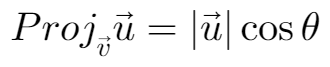
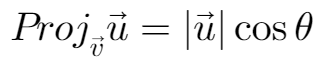
Let a letter set under the lean of the one before it (#14)
* Let a letter set under the lean of the one before it

An italic letter's italic correction is ink past its advance, so the
atom has to reach that far for a superscript to clear it. Adding it to
the pen as well spaced the next letter by the lean too, which is what
TeX does but not what CSharpMath or MathML do, and it left f standing
apart from its neighbours and U from the n after it.

A row now moves the pen by the advance and reaches to the lean, so
scripts sit exactly where they did and only the gap between letters
closes. Nothing collides: the worst leans in the font are V, Y, T and P
before a capital, and each sets over the next letter's shoulder the way
italic type intends.

* Keep the furthest reach a row has drawn to

An atom narrower than the lean before it pulled the row's width back
inside ink it had already placed, so a row ending in a widthless atom
after an f reported a width that cropped the f. The reach only ever
grows now.

---------

diff --git a/examples/README.md b/examples/README.md
@@ -4,11 +4,11 @@ Generated by `dotnet run --project tools/RenderExamples -- examples` at 40 point
 
 | Name | Size | Rendering |
 |---|---|---|
-| Alphabets | 554×57 | ![Alphabets](Alphabets.png) |
-| Capitals | 852×57 | ![Capitals](Capitals.png) |
+| Alphabets | 541×57 | ![Alphabets](Alphabets.png) |
+| Capitals | 775×57 | ![Capitals](Capitals.png) |
 | CapitalGreeks | 713×51 | ![CapitalGreeks](CapitalGreeks.png) |
-| Greeks | 570×58 | ![Greeks](Greeks.png) |
-| Numbers | 221×49 | ![Numbers](Numbers.png) |
+| Greeks | 546×58 | ![Greeks](Greeks.png) |
+| Numbers | 220×49 | ![Numbers](Numbers.png) |
 | Commands | 365×60 | ![Commands](Commands.png) |
 | Exponential | 55×54 | ![Exponential](Exponential.png) |
 | ExponentWithFraction | 65×60 | ![ExponentWithFraction](ExponentWithFraction.png) |
@@ -17,7 +17,7 @@ Generated by `dotnet run --project tools/RenderExamples -- examples` at 40 point
 | Fraction | 60×103 | ![Fraction](Fraction.png) |
 | FractionNested | 147×130 | ![FractionNested](FractionNested.png) |
 | FractionWithRoot | 74×112 | ![FractionWithRoot](FractionWithRoot.png) |
-| FunctionDomainCodomain | 181×57 | ![FunctionDomainCodomain](FunctionDomainCodomain.png) |
+| FunctionDomainCodomain | 178×57 | ![FunctionDomainCodomain](FunctionDomainCodomain.png) |
 | IntPlusFraction | 109×103 | ![IntPlusFraction](IntPlusFraction.png) |
 | BraSum | 203×132 | ![BraSum](BraSum.png) |
 | KetSum | 203×132 | ![KetSum](KetSum.png) |
@@ -25,23 +25,23 @@ Generated by `dotnet run --project tools/RenderExamples -- examples` at 40 point
 | LargeKet | 149×108 | ![LargeKet](LargeKet.png) |
 | LargerDelimiters | 245×100 | ![LargerDelimiters](LargerDelimiters.png) |
 | IntegralScripts | 356×121 | ![IntegralScripts](IntegralScripts.png) |
-| ItalicScripts | 361×74 | ![ItalicScripts](ItalicScripts.png) |
+| ItalicScripts | 353×74 | ![ItalicScripts](ItalicScripts.png) |
 | LeftRight | 94×106 | ![LeftRight](LeftRight.png) |
 | LeftRightMinus | 125×106 | ![LeftRightMinus](LeftRightMinus.png) |
 | LeftSide | 311×156 | ![LeftSide](LeftSide.png) |
 | FractionNestedDeep | 612×170 | ![FractionNestedDeep](FractionNestedDeep.png) |
 | LnEquation | 371×103 | ![LnEquation](LnEquation.png) |
-| Logic | 492×60 | ![Logic](Logic.png) |
+| Logic | 487×60 | ![Logic](Logic.png) |
 | Nothing | 20×20 | ![Nothing](Nothing.png) |
 | Phi | 45×57 | ![Phi](Phi.png) |
 | Pi | 44×39 | ![Pi](Pi.png) |
-| QuadraticFormula | 377×122 | ![QuadraticFormula](QuadraticFormula.png) |
+| QuadraticFormula | 376×122 | ![QuadraticFormula](QuadraticFormula.png) |
 | ShortIntegral | 77×127 | ![ShortIntegral](ShortIntegral.png) |
 | SimpleLimit | 193×73 | ![SimpleLimit](SimpleLimit.png) |
 | SummationBigCup | 132×100 | ![SummationBigCup](SummationBigCup.png) |
 | SummationDouble | 143×77 | ![SummationDouble](SummationDouble.png) |
 | SummationWithBigLimits | 109×158 | ![SummationWithBigLimits](SummationWithBigLimits.png) |
-| SummationWithCup | 390×124 | ![SummationWithCup](SummationWithCup.png) |
+| SummationWithCup | 387×124 | ![SummationWithCup](SummationWithCup.png) |
 | SummationWithLimits | 78×124 | ![SummationWithLimits](SummationWithLimits.png) |
 | QuarticSolutions | 508×197 | ![QuarticSolutions](QuarticSolutions.png) |
 | Radical | 74×63 | ![Radical](Radical.png) |
@@ -58,13 +58,13 @@ Generated by `dotnet run --project tools/RenderExamples -- examples` at 40 point
 | Choose | 96×106 | ![Choose](Choose.png) |
 | Matrix | 145×84 | ![Matrix](Matrix.png) |
 | BMartix | 387×60 | ![BMartix](BMartix.png) |
-| Overline | 177×58 | ![Overline](Overline.png) |
-| Underline | 203×58 | ![Underline](Underline.png) |
+| Overline | 175×58 | ![Overline](Overline.png) |
+| Underline | 198×58 | ![Underline](Underline.png) |
 | SimpleShortProof | 217×85 | ![SimpleShortProof](SimpleShortProof.png) |
 | Taylor | 275×124 | ![Taylor](Taylor.png) |
-| VectorProjection | 330×67 | ![VectorProjection](VectorProjection.png) |
+| VectorProjection | 324×67 | ![VectorProjection](VectorProjection.png) |
 | ModeMathAbsolute | 208×60 | ![ModeMathAbsolute](ModeMathAbsolute.png) |
-| ModeMathAccents | 215×69 | ![ModeMathAccents](ModeMathAccents.png) |
+| ModeMathAccents | 208×69 | ![ModeMathAccents](ModeMathAccents.png) |
 | ModeMathBlackboard | 463×56 | ![ModeMathBlackboard](ModeMathBlackboard.png) |
 | ModeMathCases | 336×93 | ![ModeMathCases](ModeMathCases.png) |
 | ModeMathEvaluatedAt | 87×138 | ![ModeMathEvaluatedAt](ModeMathEvaluatedAt.png) |
